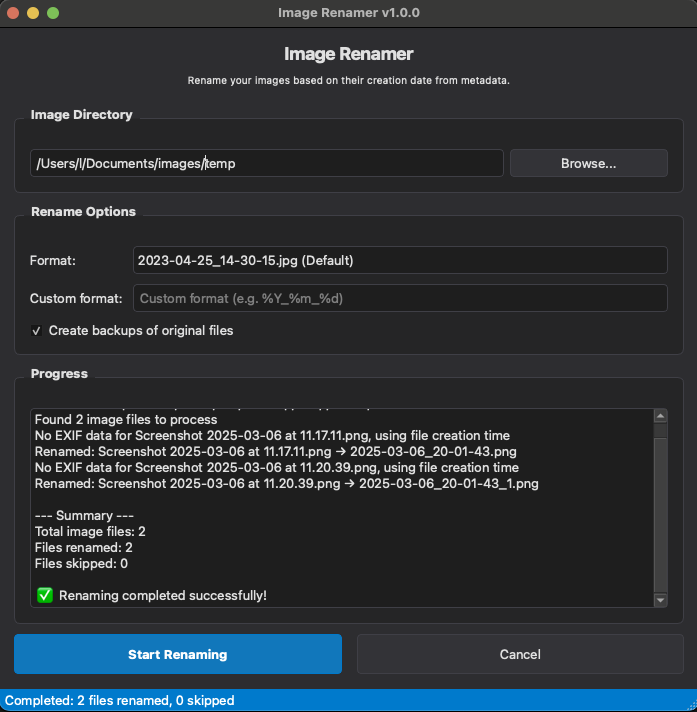
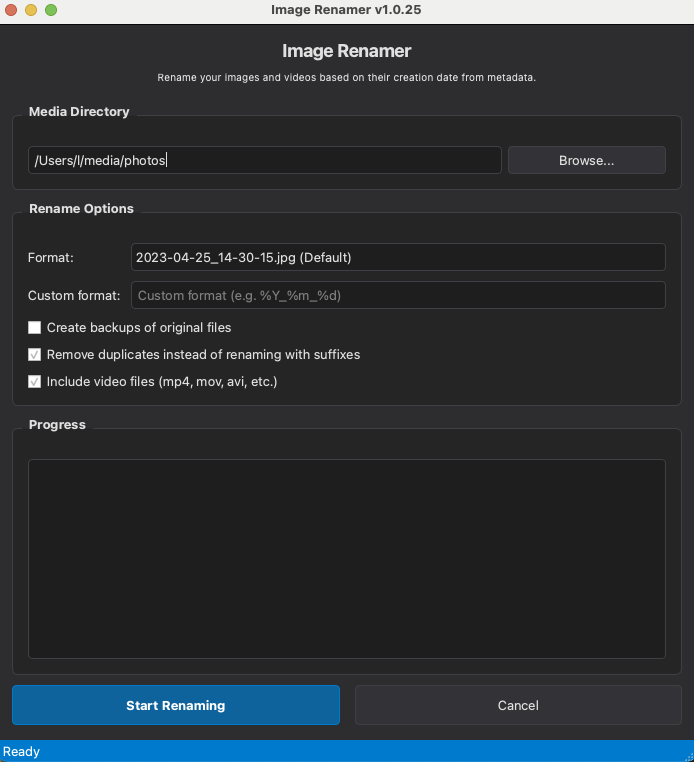
Update README with video file support and new CLI options
- Add documentation for video file renaming
- Include new CLI options for video files and duplicate handling
- Update feature list and usage examples
- Modify GitHub workflow to trigger on version tags

diff --git a/README.md b/README.md
@@ -5,20 +5,22 @@
 [![PyPI version](https://badge.fury.io/py/imagerenamer.svg)](https://badge.fury.io/py/imagerenamer)
 [![GitHub release (latest by date)](https://img.shields.io/github/v/release/larsniet/image-renamer)](https://github.com/larsniet/image-renamer/releases)
 
-A Python application that renames image files based on their creation date from EXIF metadata.
+A Python application that renames image and video files based on their creation date from metadata.
 
 ## Problem Solved
 
-Digital cameras often reset their file numbering when SD cards are formatted, making it difficult to organize photos chronologically. This application automatically renames all images in a folder using their creation date and time from the metadata.
+Digital cameras often reset their file numbering when SD cards are formatted, making it difficult to organize photos chronologically. This application automatically renames all images and videos in a folder using their creation date and time from the metadata.
 
 ## Features
 
 - Renames image files using the creation date from EXIF metadata
+- Optional support for video files (mp4, mov, avi, etc.)
 - Falls back to file creation time if no EXIF data is available
 - Supports JPG, JPEG, PNG, NEF, CR2, and ARW file formats
 - Optional backup of original files
 - Customizable filename format
 - Prevents duplicate filenames by adding a counter
+- Option to remove duplicate files instead of renaming them
 - Beautiful and user-friendly GUI interface
 - Remembers your previous settings
 
@@ -116,11 +118,25 @@ With custom filename format:
 imagerenamer /path/to/images --format "%Y%m%d_%H%M%S"
 ```
 
+Including video files:
+
+```bash
+imagerenamer /path/to/images --include-videos
+```
+
+Removing duplicates instead of renaming them:
+
+```bash
+imagerenamer /path/to/images --remove-duplicates
+```
+
 ### Command Line Arguments
 
 - `folder`: Path to the folder containing images (required)
 - `-b, --backup`: Create backup of original files
 - `-f, --format`: Format string for the new filename (default: '%Y-%m-%d_%H-%M-%S')
+- `-r, --remove-duplicates`: Remove duplicates instead of renaming them with suffixes
+- `--include-videos`: Include video files (mp4, mov, avi, etc.) in addition to images
 - `-v, --version`: Show version information and exit
 
 ## Format String Options
@@ -241,4 +257,4 @@ You can download the latest binary release for your platform from the [Releases 
 
 ## License
 
-This project is licensed under the MIT License - see the [LICENSE](LICENSE) file for details. 
+This project is licensed under the MIT License - see the [LICENSE](LICENSE) file for details.
